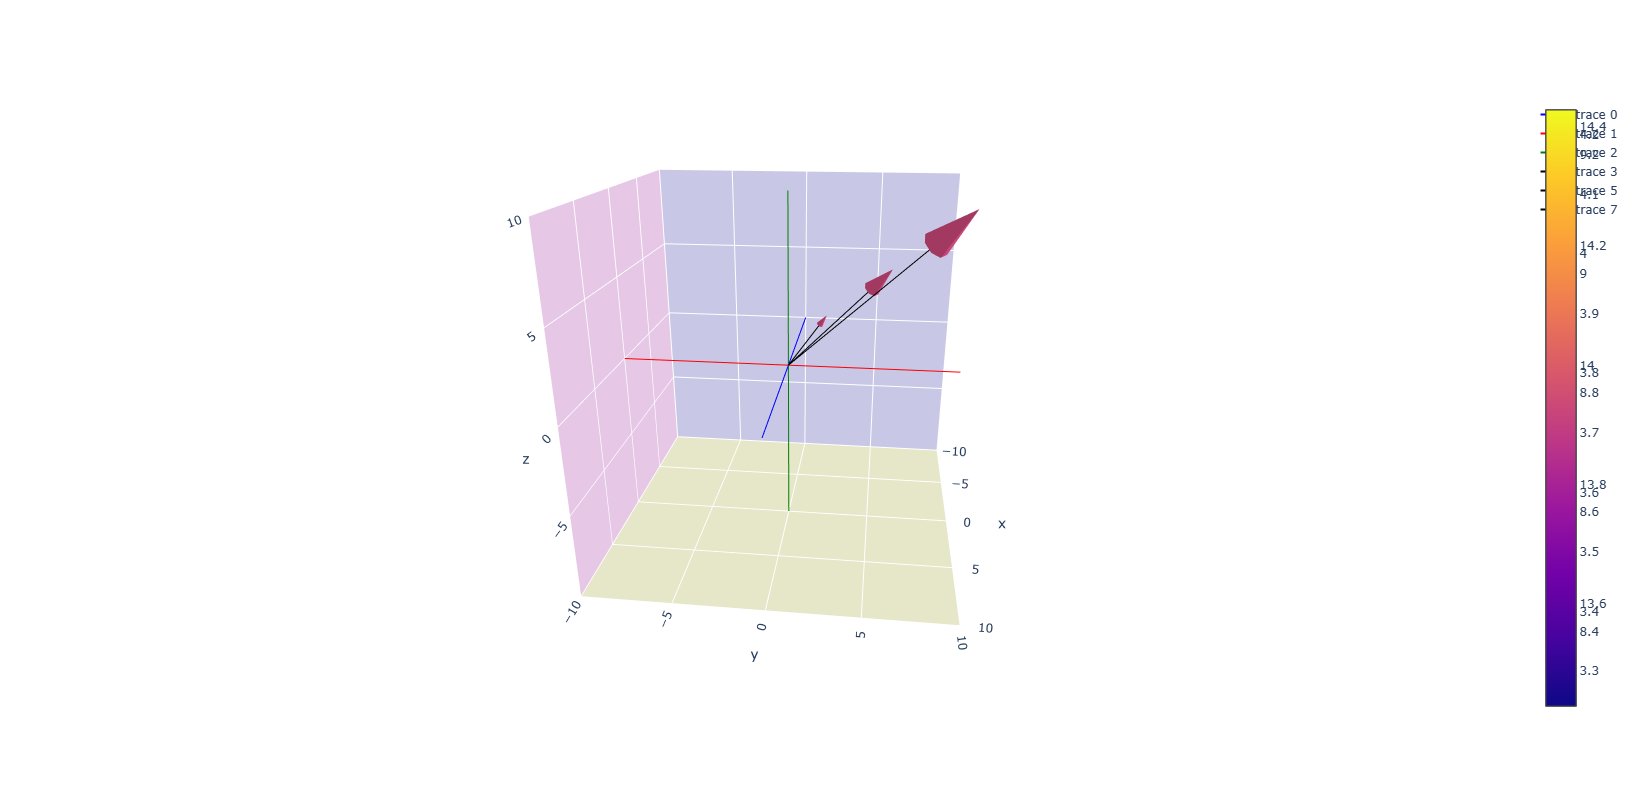
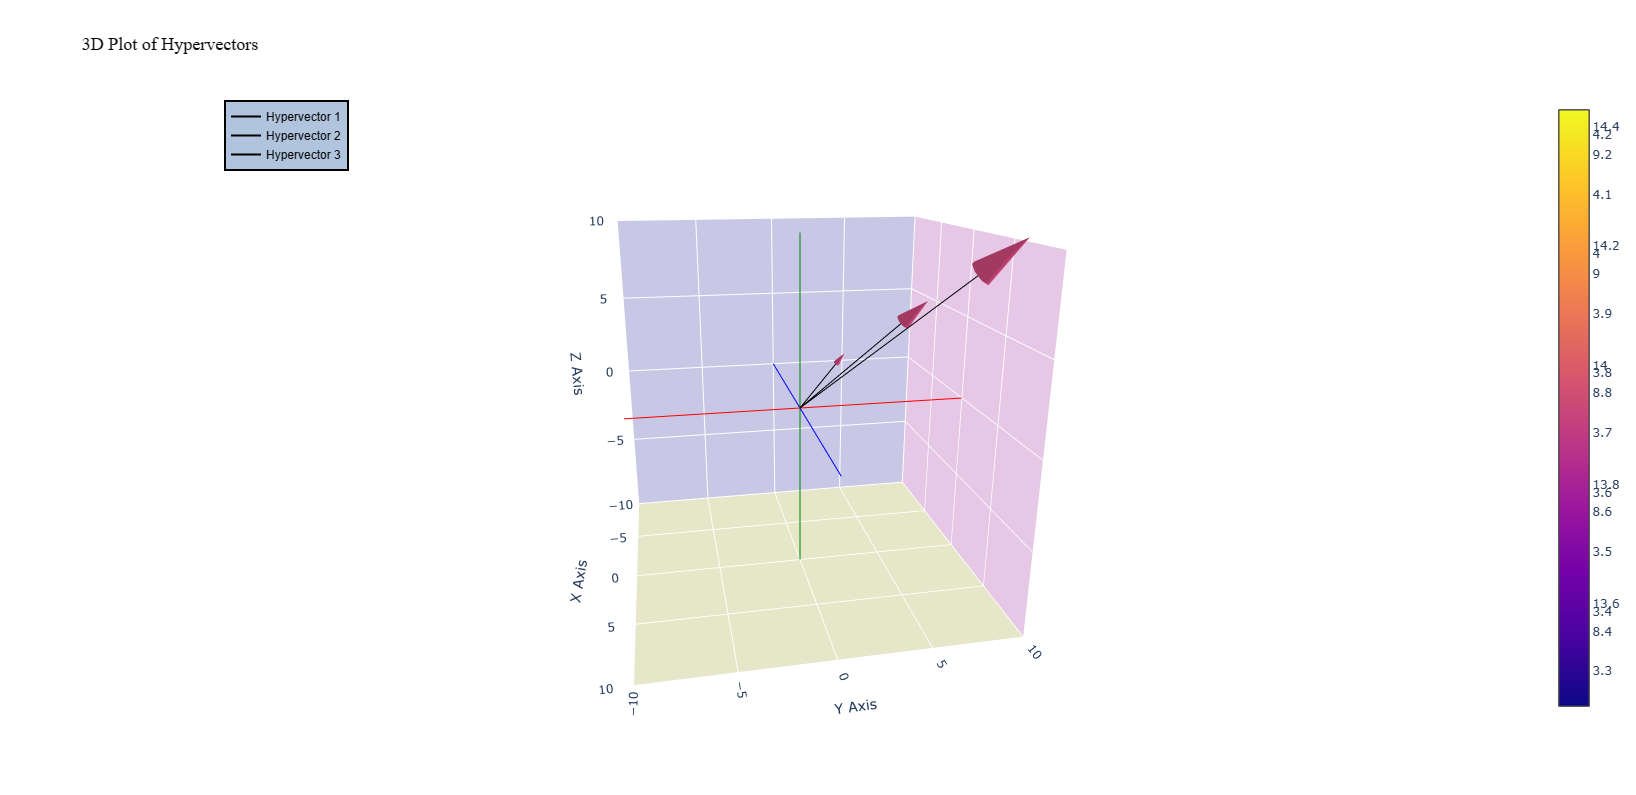
New UI

diff --git a/Application_Folder/templates/Index.html b/Application_Folder/templates/Index.html
@@ -86,6 +86,9 @@
             <label class="hidden-label" for="Pdf_upload">Upload</label>
             <input type="file" id="pdf_upload" name="pdf_upload" accept=".pdf">
         </div>
+        <div class="Workflow saver">
+            <button type="submit">save</button>
+        </div>
         <button type="submit">Run</button>
     </form>
     <canvas id="result-canvas"></canvas>

diff --git a/Bosonic-Cryptography/Full-HSHH-Model.py b/Bosonic-Cryptography/Full-HSHH-Model.py
@@ -7,16 +7,38 @@ gridlines = [([-10, 10], [0, 0], [0, 0]), ([0, 0], [-10, 10], [0, 0]), ([0, 0], 
 vectors = [(1, 2, 3), (4, 5, 6), (7, 8, 9)]
 
 # Create a 3D figure and add the gridlines and vectors
-fig = go.Figure(data=[go.Scatter3d(x=x, y=y, z=z, mode='lines', line=dict(color=color, width=2)) for (x, y, z), color in zip(gridlines, ['blue', 'red', 'green'])] +
-                     [go.Scatter3d(x=[0, x], y=[0, y], z=[0, z], mode='lines', line=dict(color='black', width=2)) for x, y, z in vectors] +
-                     [go.Cone(x=[x], y=[y], z=[z], u=[x], v=[y], w=[z], sizemode="scaled", sizeref=0.2) for x, y, z in vectors])
+fig = go.Figure(data=[go.Scatter3d(x=x, y=y, z=z, mode='lines', line=dict(color=color, width=2), showlegend=False) for (x, y, z), color in zip(gridlines, ['blue', 'red', 'green'])] +
+                     [go.Scatter3d(x=[0, x], y=[0, y], z=[0, z], mode='lines', line=dict(color='black', width=2), name=f'Hypervector {i+1}') for i, (x, y, z) in enumerate(vectors)] +
+                     [go.Cone(x=[x], y=[y], z=[z], u=[x], v=[y], w=[z], sizemode="scaled", sizeref=0.2, showlegend=False) for x, y, z in vectors])
 
 # Update layout of the figure
 fig.update_layout(scene=dict(
-    xaxis=dict(backgroundcolor="rgb(200, 200, 230)", gridcolor="white", showbackground=True, zerolinecolor="white", nticks=10, range=[-10, 10]),
-    yaxis=dict(backgroundcolor="rgb(230, 200,230)", gridcolor="white", showbackground=True, zerolinecolor="white", nticks=10, range=[-10, 10]),
-    zaxis=dict(backgroundcolor="rgb(230, 230,200)", gridcolor="white", showbackground=True, zerolinecolor="white", nticks=10, range=[-10, 10]),
+    xaxis=dict(backgroundcolor="rgb(200, 200, 230)", gridcolor="white", showbackground=True, zerolinecolor="white", nticks=10, range=[-10, 10], title='X Axis'),
+    yaxis=dict(backgroundcolor="rgb(230, 200,230)", gridcolor="white", showbackground=True, zerolinecolor="white", nticks=10, range=[-10, 10], title='Y Axis'),
+    zaxis=dict(backgroundcolor="rgb(230, 230,200)", gridcolor="white", showbackground=True, zerolinecolor="white", nticks=10, range=[-10, 10], title='Z Axis'),
     aspectmode='cube'
+),
+legend=dict(
+    x=0.1,
+    y=1,
+    xanchor="left",
+    yanchor="top",
+    traceorder="normal",
+    font=dict(
+        family="sans-serif",
+        size=12,
+        color="black"
+    ),
+    bgcolor="LightSteelBlue",
+    bordercolor="Black",
+    borderwidth=2
+),
+showlegend=True,
+title='3D Plot of Hypervectors',
+title_font=dict(
+    family="Times New Roman",
+    size=18,
+    color="black"
 ))
 
 # Show the figure
